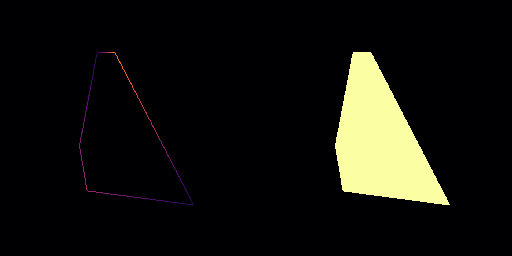
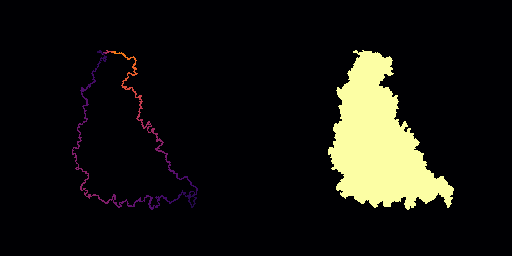
Fix path filling procedure to make it more robust (to prevent holes like with floodfill) (#76)

diff --git a/src/geometry/path.cpp b/src/geometry/path.cpp
@@ -440,15 +440,16 @@ void Path::to_array(Array &array, Vec4<float> bbox, bool filled)
   // flood filling
   if (filled)
   {
-    Vec2<float> xy = cloud.get_center();
+    Array array_bckp = array;
 
-    int i = (int)((xy.x - bbox.a) / (bbox.b - bbox.a) * (array.shape.x - 1));
-    int j = (int)((xy.y - bbox.c) / (bbox.d - bbox.c) * (array.shape.y - 1));
-
-    i = std::clamp(i, 0, array.shape.x - 1);
-    j = std::clamp(j, 0, array.shape.y - 1);
+    // TODO make something more robust
+    int i = 0;
+    int j = 0;
 
     flood_fill(array, i, j);
+
+    array = 1.f - array;
+    array = maximum(array, array_bckp);
   }
 }
 

diff --git a/examples/ex_path_flood_fill/ex_path_flood_fill.cpp b/examples/ex_path_flood_fill/ex_path_flood_fill.cpp
@@ -14,6 +14,7 @@ int main(void)
 
   auto z1 = hmap::Array(shape);
   path.resample(0.1f);
+  path.fractalize(8, seed);
   path.to_array(z1, bbox);
 
   auto z2 = z1;
